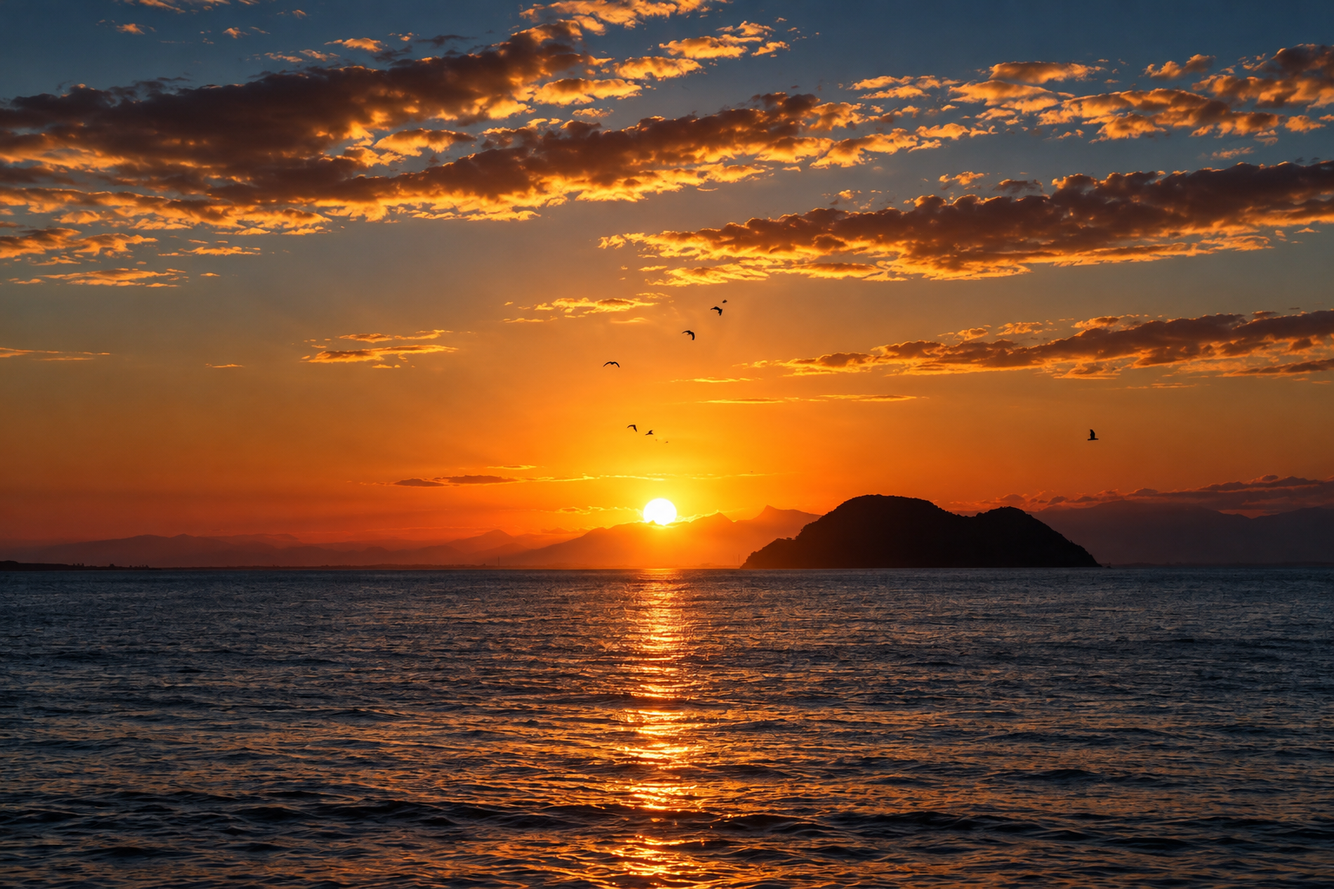
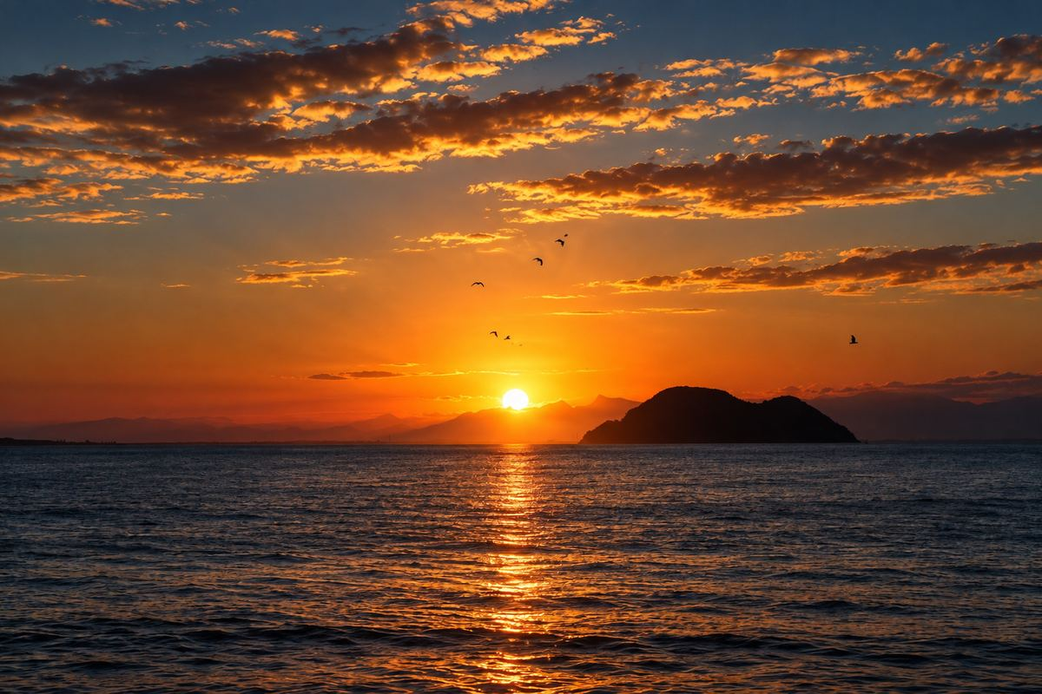
Optimizar imagenes (8.9 MB a ~450 KB), corregir width/height y priorizar retrato del hero

diff --git a/index.html b/index.html
@@ -31,11 +31,11 @@
 <header class="header"><div class="nav-wrap"><a class="brand" href="#inicio" aria-label="Ps. Iván Oda, inicio"><img class="brand-logo" src="assets/logo-ivan-oda.png" width="64" height="64" alt=""><span>Ps. Iván Oda<small>TERAPIA COGNITIVO-CONSTRUCTIVISTA · SANTIAGO</small></span></a><button class="menu" aria-expanded="false" aria-controls="navegacion">Menú <span aria-hidden="true">☰</span></button><nav id="navegacion" aria-label="Navegación principal"><a href="#sobre-mi">Sobre mí</a><a href="terapia/">Mi enfoque</a><a href="valores/">Valores</a><a href="./saber-mas/">Saber más</a><a class="nav-contact booking-cta" href="https://docs.google.com/forms/d/e/1FAIpQLSeDwQwTPXMeegrJZO9NOYlDgUrXfL-yd4MR4_2hZIzqV7ilGA/viewform?usp=sharing&amp;ouid=102151947040707650040" target="_blank" rel="noopener noreferrer">Agendar sesión <span aria-hidden="true">↗</span></a></nav></div></header>
 <div class="crisis-bar"><a href="./prevencion-del-suicidio-y-urgencias.html">Prevención del suicidio y urgencias <span aria-hidden="true">↗</span></a></div>
 <main id="contenido" class="home-page">
-<section class="hero wrap" id="inicio"><div class="hero-copy"><p class="eyebrow">TERAPIA COGNITIVO-CONSTRUCTIVISTA · SANTIAGO</p><h1>Un espacio para<br><em>encontrarte.</em></h1><p class="lead">Tu historia merece ser escuchada. Te acompaño a explorar lo que estás viviendo y a construir nuevas formas de relacionarte contigo y con los demás.</p><div class="hero-actions"><a class="button booking-cta" href="https://docs.google.com/forms/d/e/1FAIpQLSeDwQwTPXMeegrJZO9NOYlDgUrXfL-yd4MR4_2hZIzqV7ilGA/viewform?usp=sharing&amp;ouid=102151947040707650040" target="_blank" rel="noopener noreferrer">Agendar sesión <span aria-hidden="true">↗</span></a><a class="text-link" href="terapia/">Conoce mi enfoque</a></div><p class="location">Providencia, Santiago de Chile <span>·</span> Atención online</p></div><div class="portrait-wrap"><div class="portrait-caption"><span>Mirar.<br>Comprender.<br><i>Transformar.</i></span><span class="caption-rule"></span></div><img class="portrait" src="assets/ivan-oda-retrato.png" width="1086" height="1448" alt="Iván Oda sentado en un jardín junto a una piscina"><div class="portrait-label"><strong>Iván Oda</strong><span>Psicólogo cognitivo-constructivista</span></div></div></section>
+<section class="hero wrap" id="inicio"><div class="hero-copy"><p class="eyebrow">TERAPIA COGNITIVO-CONSTRUCTIVISTA · SANTIAGO</p><h1>Un espacio para<br><em>encontrarte.</em></h1><p class="lead">Tu historia merece ser escuchada. Te acompaño a explorar lo que estás viviendo y a construir nuevas formas de relacionarte contigo y con los demás.</p><div class="hero-actions"><a class="button booking-cta" href="https://docs.google.com/forms/d/e/1FAIpQLSeDwQwTPXMeegrJZO9NOYlDgUrXfL-yd4MR4_2hZIzqV7ilGA/viewform?usp=sharing&amp;ouid=102151947040707650040" target="_blank" rel="noopener noreferrer">Agendar sesión <span aria-hidden="true">↗</span></a><a class="text-link" href="terapia/">Conoce mi enfoque</a></div><p class="location">Providencia, Santiago de Chile <span>·</span> Atención online</p></div><div class="portrait-wrap"><div class="portrait-caption"><span>Mirar.<br>Comprender.<br><i>Transformar.</i></span><span class="caption-rule"></span></div><img class="portrait" src="assets/ivan-oda-retrato.jpg" width="800" height="1067" fetchpriority="high" alt="Iván Oda sentado en un jardín junto a una piscina"><div class="portrait-label"><strong>Iván Oda</strong><span>Psicólogo cognitivo-constructivista</span></div></div></section>
 <div class="welcome-strip"><div class="wrap"><span>El primer paso puede ser una conversación.</span><span class="first-free">Primera sesión gratis</span></div></div>
 <section class="section wrap about" id="sobre-mi"><div><p class="eyebrow">SOBRE MÍ</p><h2>Tu experiencia,<br>en el centro.</h2></div><div><p class="large-copy">Soy Iván Oda, psicólogo cognitivo-constructivista de enfoque metacognitivo.</p><p>Mi trabajo pone atención a tu historia, a los significados que construyes y a la forma en que comprendes tus pensamientos, emociones y vínculos.</p><p>Cuento con experiencia en salud pública, intervención psicológica de urgencia y trabajo clínico integrativo, así como en temáticas de ánimo, ansiedad, identidad, diversidad sexual y neurodiversidad.</p><div class="registration">Registro Superintendencia de Salud <strong>N.º 779858</strong></div></div></section>
 <section class="approach" id="enfoque"><div class="wrap section"><div class="section-heading"><div><p class="eyebrow">MI ENFOQUE</p><h2>No hay una sola forma<br>de contar tu historia.</h2></div><p>La psicoterapia constructivista explora cómo das sentido a tus experiencias. Trabajamos juntos para comprender esos significados y abrir posibilidades de cambio.</p></div><div class="pillars"><article><span class="number">01</span><h3>Mirar juntos</h3><p>Tú conoces tu experiencia. Mi rol es acompañarte a explorarla, desde una relación de colaboración y respeto.</p><span class="pillar-end">CO-CONSTRUCCIÓN</span></article><article><span class="number">02</span><h3>Comprender el sentido</h3><p>Nos detenemos en tu historia y tus vínculos para comprender el malestar y las maneras en que has intentado afrontarlo.</p><span class="pillar-end">BÚSQUEDA DE SENTIDO</span></article><article><span class="number">03</span><h3>Abrir posibilidades</h3><p>Exploramos nuevas formas de narrar lo vivido y de relacionarte con tus recuerdos, expectativas y proyectos.</p><span class="pillar-end">NUEVAS NARRATIVAS</span></article></div><p class="approach-more"><a class="text-link" href="terapia/">Conoce la terapia metacognitiva adaptada <span aria-hidden="true">↗</span></a></p></div></section>
-<section class="section wrap support"><div class="nature"><img src="assets/atardecer-mar.jpg" width="1536" height="1024" alt="Atardecer sobre el mar, con nubes doradas y aves en el cielo" loading="lazy"><span>Un proceso propio.<br><i>A tu ritmo.</i></span></div><div><p class="eyebrow">EL ESPACIO TERAPÉUTICO</p><h2>Lo que te pasa<br>tiene un lugar aquí.</h2><p>La terapia puede ayudarte a desarrollar herramientas para afrontar dificultades, comprender tus relaciones y explorar lo que da sentido a tu vida.</p><p class="topics-intro">Algunas temáticas que podemos trabajar:</p><ul class="topics"><li>Ánimo y afectividad</li><li>Ansiedad y pensamientos</li><li>Identidad y personalidad</li><li>Neurodiversidad</li><li>Pareja, familia y vínculos</li><li>Sexualidad y diversidad</li></ul></div></section>
+<section class="section wrap support"><div class="nature"><img src="assets/atardecer-mar.jpg" width="1200" height="800" alt="Atardecer sobre el mar, con nubes doradas y aves en el cielo" loading="lazy"><span>Un proceso propio.<br><i>A tu ritmo.</i></span></div><div><p class="eyebrow">EL ESPACIO TERAPÉUTICO</p><h2>Lo que te pasa<br>tiene un lugar aquí.</h2><p>La terapia puede ayudarte a desarrollar herramientas para afrontar dificultades, comprender tus relaciones y explorar lo que da sentido a tu vida.</p><p class="topics-intro">Algunas temáticas que podemos trabajar:</p><ul class="topics"><li>Ánimo y afectividad</li><li>Ansiedad y pensamientos</li><li>Identidad y personalidad</li><li>Neurodiversidad</li><li>Pareja, familia y vínculos</li><li>Sexualidad y diversidad</li></ul></div></section>
 <section class="first-session section" id="primera-sesion"><div class="wrap"><div class="section-heading"><div><p class="eyebrow">NUESTRO PRIMER ENCUENTRO</p><h2>Qué esperar de la primera sesión</h2></div><p>Un encuentro de <strong>45 minutos a una hora</strong> para conocernos y conversar sobre lo que necesitas.</p></div><div class="pillars"><article><span class="number">01</span><h3>Conocer tu historia</h3><p>Te haré preguntas para conocer tus antecedentes y comprender qué te trae a consulta.</p></article><article><span class="number">02</span><h3>Pensar un espacio para ti</h3><p>Conversaremos sobre cómo podría funcionar el espacio terapéutico de manera personalizada, considerando tus necesidades y expectativas.</p></article><article><span class="number">03</span><h3>Resolver tus dudas</h3><p>Aclararemos tus preguntas y revisaremos la modalidad de atención: online o presencial.</p></article></div><p class="approach-more"><a class="text-link" href="valores/">Ver aranceles y modalidades <span aria-hidden="true">↗</span></a></p></div></section>
 <section class="contact section" id="contacto"><div class="wrap contact-grid"><div><p class="eyebrow">CONVERSEMOS</p><h2>Podemos empezar<br>por lo que <em>hoy necesitas.</em></h2><p>Completa el formulario para solicitar tu primera sesión. Si tienes dudas o quieres consultar disponibilidad, también puedes escribirme por WhatsApp o correo electrónico.</p><a class="button booking-cta" href="https://docs.google.com/forms/d/e/1FAIpQLSeDwQwTPXMeegrJZO9NOYlDgUrXfL-yd4MR4_2hZIzqV7ilGA/viewform?usp=sharing&amp;ouid=102151947040707650040" target="_blank" rel="noopener noreferrer">Agendar sesión <span aria-hidden="true">↗</span></a><a class="button whatsapp" href="https://wa.me/56920127300?text=Hola%20Iv%C3%A1n%2C%20quisiera%20consultar%20disponibilidad%20para%20una%20primera%20sesi%C3%B3n." target="_blank" rel="noopener noreferrer">Escribir por WhatsApp <span aria-hidden="true">↗</span></a><p class="free-note">Primera sesión gratis</p></div><div class="contact-info"><div><span>ATENCIÓN PRESENCIAL</span><p>Guardia Vieja 255<br>Providencia, Santiago de Chile</p></div><div><span>TELÉFONO</span><a href="tel:+56920127300">+56 9 2012 7300</a></div><div><span>CORREO ELECTRÓNICO</span><a href="mailto:agenda@psivanoda.cl">agenda@psivanoda.cl</a></div><div><span>ATENCIÓN ONLINE</span><p>Consulta por disponibilidad.</p></div></div></div><div class="wrap"><div class="quick-contact"><div><p class="eyebrow">CONTACTO POR CORREO</p><h3>Déjame tu consulta.</h3><p id="mail-help">Completa el mensaje y ábrelo en tu aplicación de correo para enviarlo a <a href="mailto:agenda@psivanoda.cl">agenda@psivanoda.cl</a>.</p><p class="mail-note">Para consultar horarios, modalidad o valores. No necesitas incluir antecedentes clínicos.</p></div><form id="quick-mail" action="mailto:agenda@psivanoda.cl" method="post" enctype="text/plain" aria-describedby="mail-help"><label for="contact-name">Tu nombre</label><input id="contact-name" name="nombre" autocomplete="name" maxlength="80" required><label for="contact-message">Tu mensaje</label><textarea id="contact-message" name="mensaje" rows="4" maxlength="1200" placeholder="Hola Iván, quisiera consultar…" required></textarea><button class="button light" type="submit">Abrir mi correo <span aria-hidden="true">↗</span></button><p class="mail-note" id="mail-status" role="status" aria-live="polite">El mensaje se envía desde tu correo, al pulsar Enviar allí.</p><noscript><p>Puedes escribir directamente a <a href="mailto:agenda@psivanoda.cl">agenda@psivanoda.cl</a>.</p></noscript></form></div></div></section>
 </main><footer><div class="wrap footer-inner"><a class="brand footer-brand" href="#inicio"><img class="brand-logo" src="assets/logo-ivan-oda.png" width="64" height="64" alt="">Ps. Iván Oda</a><p>Mirar · Comprender · Transformar</p><span>Terapia cognitivo-constructivista Santiago</span></div></footer>

diff --git a/dist/index.html b/dist/index.html
@@ -30,11 +30,11 @@
 <header class="header"><div class="nav-wrap"><a class="brand" href="#inicio" aria-label="Ps. Iván Oda, inicio"><img class="brand-logo" src="assets/logo-ivan-oda.png" width="64" height="64" alt=""><span>Ps. Iván Oda<small>TERAPIA COGNITIVO-CONSTRUCTIVISTA · SANTIAGO</small></span></a><button class="menu" aria-expanded="false" aria-controls="navegacion">Menú <span aria-hidden="true">☰</span></button><nav id="navegacion" aria-label="Navegación principal"><a href="#sobre-mi">Sobre mí</a><a href="terapia/">Mi enfoque</a><a href="valores/">Valores</a><a href="/saber-mas/">Saber más</a><a class="nav-contact booking-cta" href="https://docs.google.com/forms/d/e/1FAIpQLSeDwQwTPXMeegrJZO9NOYlDgUrXfL-yd4MR4_2hZIzqV7ilGA/viewform?usp=sharing&amp;ouid=102151947040707650040" target="_blank" rel="noopener noreferrer">Agendar sesión <span aria-hidden="true">↗</span></a></nav></div></header>
 <div class="crisis-bar"><a href="/prevencion-del-suicidio-y-urgencias.html">Prevención del suicidio y urgencias <span aria-hidden="true">↗</span></a></div>
 <main id="contenido" class="home-page">
-<section class="hero wrap" id="inicio"><div class="hero-copy"><p class="eyebrow">TERAPIA COGNITIVO-CONSTRUCTIVISTA · SANTIAGO</p><h1>Un espacio para<br><em>encontrarte.</em></h1><p class="lead">Tu historia merece ser escuchada. Te acompaño a explorar lo que estás viviendo y a construir nuevas formas de relacionarte contigo y con los demás.</p><div class="hero-actions"><a class="button booking-cta" href="https://docs.google.com/forms/d/e/1FAIpQLSeDwQwTPXMeegrJZO9NOYlDgUrXfL-yd4MR4_2hZIzqV7ilGA/viewform?usp=sharing&amp;ouid=102151947040707650040" target="_blank" rel="noopener noreferrer">Agendar sesión <span aria-hidden="true">↗</span></a><a class="text-link" href="terapia/">Conoce mi enfoque</a></div><p class="location">Providencia, Santiago de Chile <span>·</span> Atención online</p></div><div class="portrait-wrap"><div class="portrait-caption"><span>Mirar.<br>Comprender.<br><i>Transformar.</i></span><span class="caption-rule"></span></div><img class="portrait" src="assets/ivan-oda-retrato.png" width="1086" height="1448" alt="Iván Oda sentado en un jardín junto a una piscina"><div class="portrait-label"><strong>Iván Oda</strong><span>Psicólogo cognitivo-constructivista</span></div></div></section>
+<section class="hero wrap" id="inicio"><div class="hero-copy"><p class="eyebrow">TERAPIA COGNITIVO-CONSTRUCTIVISTA · SANTIAGO</p><h1>Un espacio para<br><em>encontrarte.</em></h1><p class="lead">Tu historia merece ser escuchada. Te acompaño a explorar lo que estás viviendo y a construir nuevas formas de relacionarte contigo y con los demás.</p><div class="hero-actions"><a class="button booking-cta" href="https://docs.google.com/forms/d/e/1FAIpQLSeDwQwTPXMeegrJZO9NOYlDgUrXfL-yd4MR4_2hZIzqV7ilGA/viewform?usp=sharing&amp;ouid=102151947040707650040" target="_blank" rel="noopener noreferrer">Agendar sesión <span aria-hidden="true">↗</span></a><a class="text-link" href="terapia/">Conoce mi enfoque</a></div><p class="location">Providencia, Santiago de Chile <span>·</span> Atención online</p></div><div class="portrait-wrap"><div class="portrait-caption"><span>Mirar.<br>Comprender.<br><i>Transformar.</i></span><span class="caption-rule"></span></div><img class="portrait" src="assets/ivan-oda-retrato.jpg" width="800" height="1067" fetchpriority="high" alt="Iván Oda sentado en un jardín junto a una piscina"><div class="portrait-label"><strong>Iván Oda</strong><span>Psicólogo cognitivo-constructivista</span></div></div></section>
 <div class="welcome-strip"><div class="wrap"><span>El primer paso puede ser una conversación.</span><span class="first-free">Primera sesión gratis</span></div></div>
 <section class="section wrap about" id="sobre-mi"><div><p class="eyebrow">SOBRE MÍ</p><h2>Tu experiencia,<br>en el centro.</h2></div><div><p class="large-copy">Soy Iván Oda, psicólogo cognitivo-constructivista de enfoque metacognitivo.</p><p>Mi trabajo pone atención a tu historia, a los significados que construyes y a la forma en que comprendes tus pensamientos, emociones y vínculos.</p><p>Cuento con experiencia en salud pública, intervención psicológica de urgencia y trabajo clínico integrativo, así como en temáticas de ánimo, ansiedad, identidad, diversidad sexual y neurodiversidad.</p><div class="registration">Registro Superintendencia de Salud <strong>N.º 779858</strong></div></div></section>
 <section class="approach" id="enfoque"><div class="wrap section"><div class="section-heading"><div><p class="eyebrow">MI ENFOQUE</p><h2>No hay una sola forma<br>de contar tu historia.</h2></div><p>La psicoterapia constructivista explora cómo das sentido a tus experiencias. Trabajamos juntos para comprender esos significados y abrir posibilidades de cambio.</p></div><div class="pillars"><article><span class="number">01</span><h3>Mirar juntos</h3><p>Tú conoces tu experiencia. Mi rol es acompañarte a explorarla, desde una relación de colaboración y respeto.</p><span class="pillar-end">CO-CONSTRUCCIÓN</span></article><article><span class="number">02</span><h3>Comprender el sentido</h3><p>Nos detenemos en tu historia y tus vínculos para comprender el malestar y las maneras en que has intentado afrontarlo.</p><span class="pillar-end">BÚSQUEDA DE SENTIDO</span></article><article><span class="number">03</span><h3>Abrir posibilidades</h3><p>Exploramos nuevas formas de narrar lo vivido y de relacionarte con tus recuerdos, expectativas y proyectos.</p><span class="pillar-end">NUEVAS NARRATIVAS</span></article></div><p class="approach-more"><a class="text-link" href="terapia/">Conoce la terapia metacognitiva adaptada <span aria-hidden="true">↗</span></a></p></div></section>
-<section class="section wrap support"><div class="nature"><img src="assets/atardecer-mar.jpg" width="1536" height="1024" alt="Atardecer sobre el mar, con nubes doradas y aves en el cielo" loading="lazy"><span>Un proceso propio.<br><i>A tu ritmo.</i></span></div><div><p class="eyebrow">EL ESPACIO TERAPÉUTICO</p><h2>Lo que te pasa<br>tiene un lugar aquí.</h2><p>La terapia puede ayudarte a desarrollar herramientas para afrontar dificultades, comprender tus relaciones y explorar lo que da sentido a tu vida.</p><p class="topics-intro">Algunas temáticas que podemos trabajar:</p><ul class="topics"><li>Ánimo y afectividad</li><li>Ansiedad y pensamientos</li><li>Identidad y personalidad</li><li>Neurodiversidad</li><li>Pareja, familia y vínculos</li><li>Sexualidad y diversidad</li></ul></div></section>
+<section class="section wrap support"><div class="nature"><img src="assets/atardecer-mar.jpg" width="1200" height="800" alt="Atardecer sobre el mar, con nubes doradas y aves en el cielo" loading="lazy"><span>Un proceso propio.<br><i>A tu ritmo.</i></span></div><div><p class="eyebrow">EL ESPACIO TERAPÉUTICO</p><h2>Lo que te pasa<br>tiene un lugar aquí.</h2><p>La terapia puede ayudarte a desarrollar herramientas para afrontar dificultades, comprender tus relaciones y explorar lo que da sentido a tu vida.</p><p class="topics-intro">Algunas temáticas que podemos trabajar:</p><ul class="topics"><li>Ánimo y afectividad</li><li>Ansiedad y pensamientos</li><li>Identidad y personalidad</li><li>Neurodiversidad</li><li>Pareja, familia y vínculos</li><li>Sexualidad y diversidad</li></ul></div></section>
 <section class="first-session section" id="primera-sesion"><div class="wrap"><div class="section-heading"><div><p class="eyebrow">NUESTRO PRIMER ENCUENTRO</p><h2>Qué esperar de la primera sesión</h2></div><p>Un encuentro de <strong>45 minutos a una hora</strong> para conocernos y conversar sobre lo que necesitas.</p></div><div class="pillars"><article><span class="number">01</span><h3>Conocer tu historia</h3><p>Te haré preguntas para conocer tus antecedentes y comprender qué te trae a consulta.</p></article><article><span class="number">02</span><h3>Pensar un espacio para ti</h3><p>Conversaremos sobre cómo podría funcionar el espacio terapéutico de manera personalizada, considerando tus necesidades y expectativas.</p></article><article><span class="number">03</span><h3>Resolver tus dudas</h3><p>Aclararemos tus preguntas y revisaremos la modalidad de atención: online o presencial.</p></article></div><p class="approach-more"><a class="text-link" href="valores/">Ver aranceles y modalidades <span aria-hidden="true">↗</span></a></p></div></section>
 <section class="contact section" id="contacto"><div class="wrap contact-grid"><div><p class="eyebrow">CONVERSEMOS</p><h2>Podemos empezar<br>por lo que <em>hoy necesitas.</em></h2><p>Completa el formulario para solicitar tu primera sesión. Si tienes dudas o quieres consultar disponibilidad, también puedes escribirme por WhatsApp o correo electrónico.</p><a class="button booking-cta" href="https://docs.google.com/forms/d/e/1FAIpQLSeDwQwTPXMeegrJZO9NOYlDgUrXfL-yd4MR4_2hZIzqV7ilGA/viewform?usp=sharing&amp;ouid=102151947040707650040" target="_blank" rel="noopener noreferrer">Agendar sesión <span aria-hidden="true">↗</span></a><a class="button whatsapp" href="https://wa.me/56920127300?text=Hola%20Iv%C3%A1n%2C%20quisiera%20consultar%20disponibilidad%20para%20una%20primera%20sesi%C3%B3n." target="_blank" rel="noopener noreferrer">Escribir por WhatsApp <span aria-hidden="true">↗</span></a><p class="free-note">Primera sesión gratis</p></div><div class="contact-info"><div><span>ATENCIÓN PRESENCIAL</span><p>Guardia Vieja 255<br>Providencia, Santiago de Chile</p></div><div><span>TELÉFONO</span><a href="tel:+56920127300">+56 9 2012 7300</a></div><div><span>CORREO ELECTRÓNICO</span><a href="mailto:agenda@psivanoda.cl">agenda@psivanoda.cl</a></div><div><span>ATENCIÓN ONLINE</span><p>Consulta por disponibilidad.</p></div></div></div><div class="wrap"><div class="quick-contact"><div><p class="eyebrow">CONTACTO POR CORREO</p><h3>Déjame tu consulta.</h3><p id="mail-help">Completa el mensaje y ábrelo en tu aplicación de correo para enviarlo a <a href="mailto:agenda@psivanoda.cl">agenda@psivanoda.cl</a>.</p><p class="mail-note">Para consultar horarios, modalidad o valores. No necesitas incluir antecedentes clínicos.</p></div><form id="quick-mail" action="mailto:agenda@psivanoda.cl" method="post" enctype="text/plain" aria-describedby="mail-help"><label for="contact-name">Tu nombre</label><input id="contact-name" name="nombre" autocomplete="name" maxlength="80" required><label for="contact-message">Tu mensaje</label><textarea id="contact-message" name="mensaje" rows="4" maxlength="1200" placeholder="Hola Iván, quisiera consultar…" required></textarea><button class="button light" type="submit">Abrir mi correo <span aria-hidden="true">↗</span></button><p class="mail-note" id="mail-status" role="status" aria-live="polite">El mensaje se envía desde tu correo, al pulsar Enviar allí.</p><noscript><p>Puedes escribir directamente a <a href="mailto:agenda@psivanoda.cl">agenda@psivanoda.cl</a>.</p></noscript></form></div></div></section>
 </main><footer><div class="wrap footer-inner"><a class="brand footer-brand" href="#inicio"><img class="brand-logo" src="assets/logo-ivan-oda.png" width="64" height="64" alt="">Ps. Iván Oda</a><p>Mirar · Comprender · Transformar</p><span>Terapia cognitivo-constructivista Santiago</span></div></footer>

diff --git a/terapia/index.html b/terapia/index.html
@@ -33,6 +33,6 @@
 <section class="wrap section therapy-process"><div class="process-title"><p class="eyebrow">CÓMO TRABAJAMOS</p><h2>Un proceso que<br>construimos juntos.</h2><p>Partimos de situaciones concretas de tu vida. Acordamos los objetivos y revisamos cómo va el proceso, considerando tus necesidades y recursos.</p></div><ol class="process-list"><li><h3>Reconocer los patrones</h3><p>Exploramos las relaciones entre pensamientos, emociones, acciones y vínculos en situaciones que te generan malestar. Buscamos comprender qué se repite y en qué contexto aparece.</p></li><li><h3>Examinar los significados</h3><p>Revisamos las creencias y expectativas que acompañan esas experiencias. Abrimos espacio para cuestionarlas y considerar otras interpretaciones desde tu historia personal.</p></li><li><h3>Ensayar nuevas respuestas</h3><p>Trabajamos con herramientas y estrategias de afrontamiento para explorar otras maneras de responder ante las dificultades y relacionarte con los demás.</p></li><li><h3>Atender a lo que ocurre entre nosotros</h3><p>La relación terapéutica forma parte del trabajo. Podemos conversar sobre lo que sientes en sesión, tus expectativas y las dificultades que aparezcan en nuestro encuentro.</p></li><li><h3>Llevar lo aprendido a tu vida</h3><p>Buscamos que puedas usar tus recursos fuera de las sesiones, tomar decisiones propias y afrontar el malestar con mayor autonomía.</p></li></ol></section>
 <section class="therapy-purpose"><div class="wrap section"><p class="eyebrow">QUÉ PODEMOS EXPLORAR</p><h2>Lo que vives.<br><em>Lo que quieres construir.</em></h2><div class="purpose-grid"><article><h3>Ánimo y sentido de vida</h3><p>Experiencias de tristeza, desánimo o pérdida de sentido, y su relación con tu historia, tus necesidades y tus proyectos.</p></article><article><h3>Ansiedad y preocupación</h3><p>Cómo vives la incertidumbre, qué pensamientos te preocupan y de qué maneras intentas responder al malestar.</p></article><article><h3>Identidad y trastornos de personalidad</h3><p>La manera en que te comprendes y los patrones persistentes que generan malestar en tus emociones o vínculos. Podemos explorar estas dificultades y evaluar el abordaje adecuado para tu situación.</p><a class="text-link" href="#inspiracion-tmi">Conoce la inspiración de mi enfoque</a></article><article><h3>Relaciones y vínculos</h3><p>Lo que esperas de los demás, cómo comunicas tus necesidades y qué ocurre en los conflictos o encuentros importantes para ti.</p></article></div><p class="therapy-scope">La pertinencia del enfoque y los objetivos se evalúan contigo. El proceso se ajusta a tu situación y los resultados pueden variar entre personas.</p></div></section>
 <section class="therapy-evidence" id="inspiracion-tmi"><div class="wrap section"><span id="evidencia-personalidad"></span><p class="eyebrow">LA INSPIRACIÓN DE MI TRABAJO</p><h2>Una mirada metacognitiva.<br><em>Un encuentro interpersonal.</em></h2><p class="evidence-lead">La Terapia Metacognitiva Interpersonal es una referencia para mi forma de comprender el malestar: explorar cómo damos sentido a lo que vivimos, cómo nos vemos a nosotros mismos y qué esperamos de los demás. En mi consulta, esta inspiración se traduce en un trabajo compartido sobre tu experiencia cotidiana.</p><div class="evidence-grid"><article><p class="eyebrow">COMPRENDER TU EXPERIENCIA</p><h3>De lo que ocurre<br>a lo que significa para ti</h3><p>Partimos de situaciones concretas: una conversación que te dejó inquietud, un conflicto que se repite o una decisión difícil. Nos detenemos en los pensamientos, emociones y necesidades que aparecen, para comprender cómo se relacionan con tu historia.</p><p>La intención es que puedas reconocer con mayor claridad lo que te pasa y explorar otras formas de interpretarlo y responder.</p></article><article><p class="eyebrow">COMPRENDER TUS VÍNCULOS</p><h3>Lo que buscas.<br>Lo que temes. Cómo respondes.</h3><p>Exploramos lo que deseas en una relación, las respuestas que esperas de la otra persona y lo que haces cuando aparece el temor al rechazo, la crítica o la distancia.</p><p>Observamos juntos esos patrones y ensayamos maneras de expresar tus necesidades, poner límites y acercarte a los demás que tengan sentido para ti.</p></article></div><div class="evidence-context"><h3>Identidad y trastornos de personalidad</h3><p>Esta inspiración ocupa un lugar especial en mi trabajo con dificultades de identidad, regulación emocional y patrones persistentes en las relaciones, incluyendo los trastornos de personalidad. El foco está en comprender cómo vives estas experiencias y qué posibilidades de cambio podemos construir desde tus recursos.</p><p>La relación terapéutica también es un espacio para explorar estas formas de vincularte. Podemos conversar sobre lo que ocurre entre nosotros, revisar nuestras interpretaciones y trabajar hacia una mayor autonomía en tu vida cotidiana.</p><p>Mi propuesta es una integración clínica inspirada en la TMI, ajustada a cada persona dentro de un marco constructivista. Los objetivos y el ritmo del proceso se acuerdan contigo.</p></div></div></section>
-<section class="wrap section therapy-relationship"><div><p class="eyebrow">EL ENCUENTRO TERAPÉUTICO</p><h2>Una relación humana.<br>Un espacio para ser tú.</h2><p>Mi forma de trabajar pone en el centro la colaboración, la comprensión de tu experiencia y el desarrollo de tu autonomía. Tu voz tiene un lugar en las decisiones del proceso.</p><p>El propósito es acompañarte a construir una relación más comprensible con tu identidad, tus capacidades y lo que da sentido a tu vida.</p><a class="button" href="../#contacto">Conversemos sobre tu consulta <span aria-hidden="true">↗</span></a></div><figure><img src="../assets/ivan-oda-perfil.jpg" width="1122" height="1402" alt="Retrato de Iván Oda, psicólogo, con gafas y chaqueta oscura" loading="lazy"><figcaption>Iván Oda · Psicólogo cognitivo-constructivista</figcaption></figure></section>
+<section class="wrap section therapy-relationship"><div><p class="eyebrow">EL ENCUENTRO TERAPÉUTICO</p><h2>Una relación humana.<br>Un espacio para ser tú.</h2><p>Mi forma de trabajar pone en el centro la colaboración, la comprensión de tu experiencia y el desarrollo de tu autonomía. Tu voz tiene un lugar en las decisiones del proceso.</p><p>El propósito es acompañarte a construir una relación más comprensible con tu identidad, tus capacidades y lo que da sentido a tu vida.</p><a class="button" href="../#contacto">Conversemos sobre tu consulta <span aria-hidden="true">↗</span></a></div><figure><img src="../assets/ivan-oda-perfil.jpg" width="800" height="1000" alt="Retrato de Iván Oda, psicólogo, con gafas y chaqueta oscura" loading="lazy"><figcaption>Iván Oda · Psicólogo cognitivo-constructivista</figcaption></figure></section>
 <aside class="wrap therapy-reference" id="referencia"><details class="therapy-reading"><summary>Referencias y lecturas para profundizar</summary><p><strong>Metacognición y modelos terapéuticos</strong></p><p>1. Lysaker y colaboradores (2019). <a href="https://journals.sagepub.com/doi/10.1177/2043808718814992" target="_blank" rel="noopener noreferrer" lang="en">Metacognition and recovery in schizophrenia: From research to the development of metacognitive reflection and insight therapy.</a> Esta lectura desarrolla el concepto en otro contexto clínico; no constituye una validación de la propuesta adaptada descrita en esta página.</p><div class="evidence-references"><h3>Lecturas sobre Terapia Metacognitiva Interpersonal</h3><p id="fuente-dimaggio"><strong>2. Dimaggio, G., Salvatore, G., MacBeth, A., Ottavi, P., Buonocore, L. y Popolo, R. (2017).</strong> <a href="https://doi.org/10.1007/s10879-016-9342-7" target="_blank" rel="noopener noreferrer" lang="en">Metacognitive Interpersonal Therapy for Personality Disorders: A Case Study Series.</a> <em>Journal of Contemporary Psychotherapy, 47</em>, 11–21. Publicado inicialmente en línea en 2016.</p><p id="fuente-inchausti"><strong>3. Inchausti, F., Moreno-Campos, L., Prado-Abril, J., Sánchez-Reales, S., Fonseca-Pedrero, E., MacBeth, A., Popolo, R. y Dimaggio, G. (2020).</strong> <a href="https://doi.org/10.1007/s10879-020-09453-9" target="_blank" rel="noopener noreferrer">Terapia metacognitiva interpersonal grupal para trastornos de personalidad: resultados preliminares de un estudio piloto en salud mental pública.</a> <em>Journal of Contemporary Psychotherapy, 50</em>, 197–203. Título traducido al español.</p><h3>Lectura complementaria sobre evaluación y tratamiento</h3><p><strong>4. Hurlow, J. M. (2026).</strong> <a href="https://doi.org/10.1192/bjb.2026.10248" target="_blank" rel="noopener noreferrer">Reseña de <em lang="en">ICD-11 Personality Disorders: Assessment and Treatment</em>, editado por Bo Bach (Oxford University Press, 2025).</a> <em>BJPsych Bulletin</em>, publicación anticipada, 11 de mayo. Es una reseña bibliográfica que aporta contexto sobre evaluación y tratamiento; no es un estudio de efectividad de TMI.</p></div></details></aside>
 </main><footer><div class="wrap footer-inner"><a class="brand footer-brand" href="../"><img class="brand-logo" src="../assets/logo-ivan-oda.png" width="64" height="64" alt="">Ps. Iván Oda</a><p>Mirar · Comprender · Transformar</p><span>Terapia cognitivo-constructivista Santiago</span></div></footer><script src="../site.js?v=emergency-25"></script><aside class="mobile-booking" aria-label="Agenda y consultas"><a class="mobile-booking-help" href="https://wa.me/56920127300?text=Hola%20Iv%C3%A1n%2C%20tengo%20una%20consulta%20antes%20de%20agendar." target="_blank" rel="noopener noreferrer" aria-label="Resolver dudas por WhatsApp (abre en otra pestaña)">¿Dudas? WhatsApp</a><a class="mobile-booking-primary" href="https://docs.google.com/forms/d/e/1FAIpQLSeDwQwTPXMeegrJZO9NOYlDgUrXfL-yd4MR4_2hZIzqV7ilGA/viewform?usp=sharing&amp;ouid=102151947040707650040" target="_blank" rel="noopener noreferrer" aria-label="Agendar sesión (abre en otra pestaña)">Agendar sesión <span aria-hidden="true">↗</span></a></aside></body></html>
